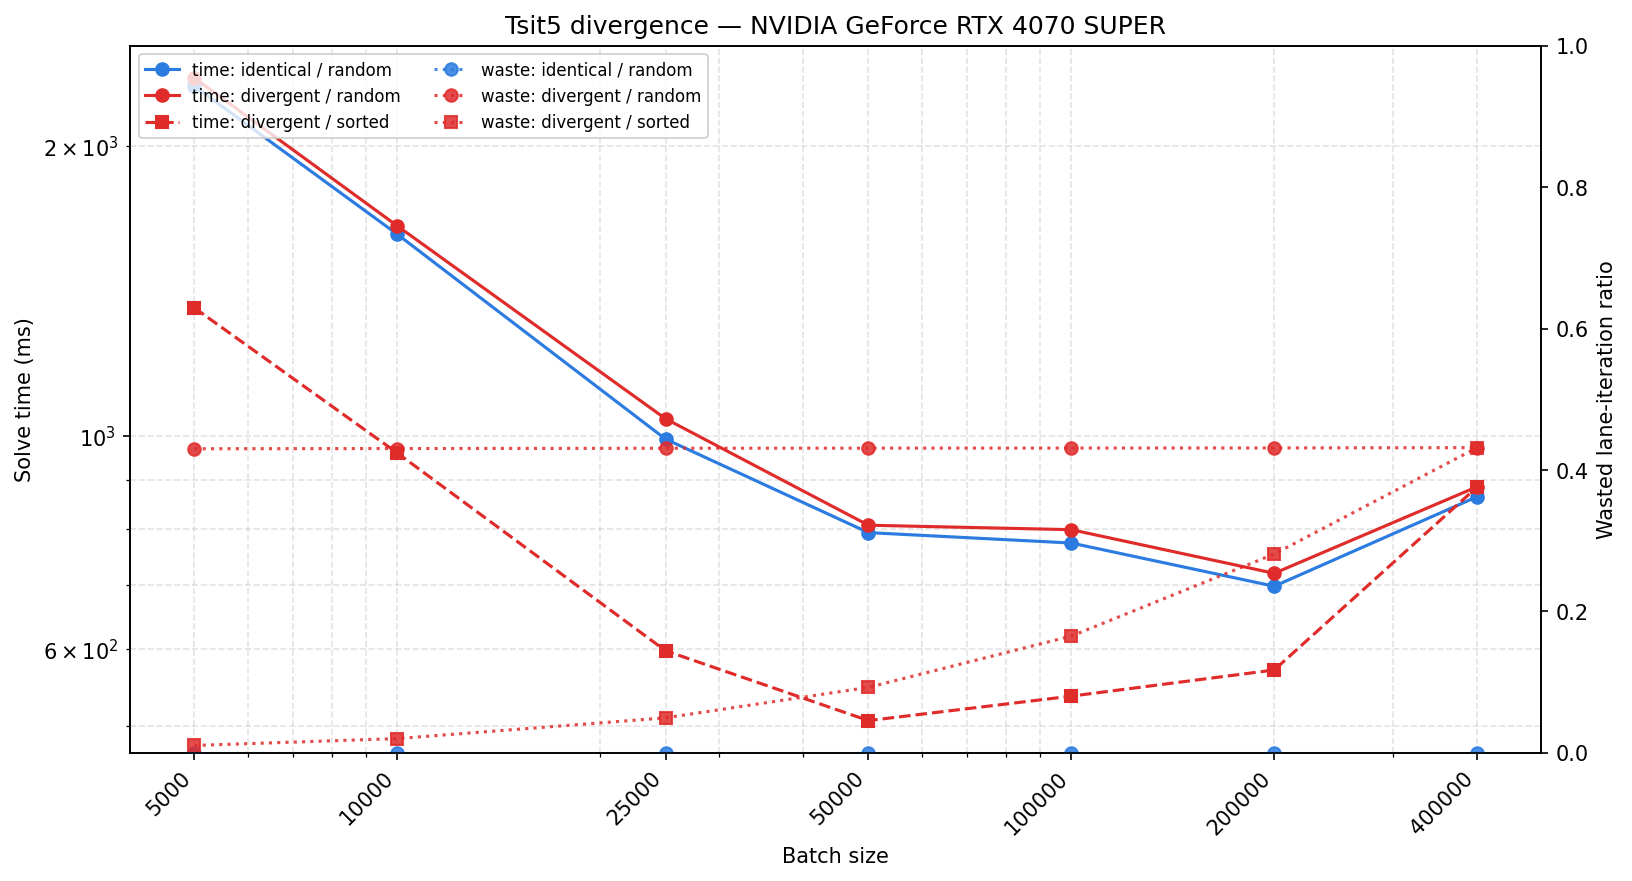
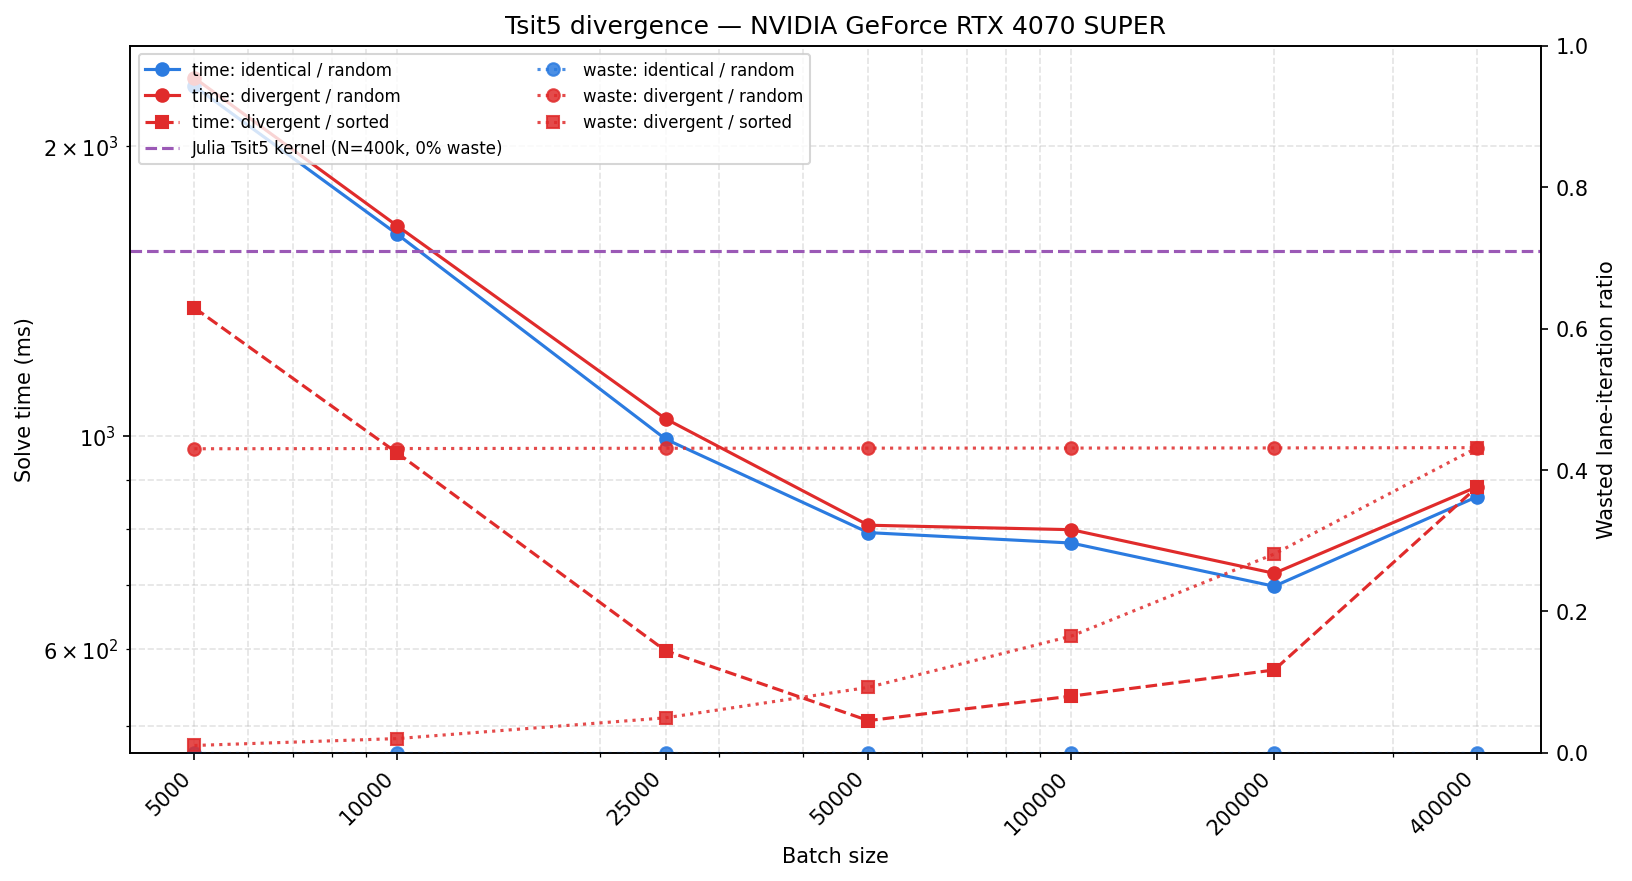
Add Julia GPUKernel solve time to divergence test plots

Changed region(s): [[0.0938, 0.0613, 0.5, 0.1839]]

diff --git a/scripts/4_rodas5_divergence/main.py b/scripts/4_rodas5_divergence/main.py
@@ -32,6 +32,7 @@ import numpy as np
 
 sys.path.insert(0, str(Path(__file__).resolve().parents[2]))
 
+from reference.solvers.python.julia_rodas5 import solve as julia_rodas5_solve
 from reference.systems.python import robertson
 from scripts.benchmark_common import (
     get_gpu_name,
@@ -57,6 +58,10 @@ _SOLVER_KWARGS = {
 
 _SCRIPT_DIR = Path(__file__).resolve().parent
 _CACHE_PATH = _SCRIPT_DIR / "results.json"
+
+_JULIA_KERNEL_CACHE_KEY = "julia_rodas5_EnsembleGPUKernel"
+_JULIA_KERNEL_COLOR = "#9b59b6"
+_JULIA_KERNEL_LABEL = "Julia Rodas5 kernel (N=400k, 0% waste)"
 
 
 @dataclass(frozen=True)
@@ -171,6 +176,22 @@ def order_scenario_data(
     return y0[perm], params[perm]
 
 
+_JULIA_SOLVER_KWARGS = {k: v for k, v in _SOLVER_KWARGS.items() if k != "lu_precision"}
+
+
+def time_julia_kernel() -> float:
+    _, params = robertson.make_scenario("divergent", _N_TRAJ)
+    result = julia_rodas5_solve._julia_solve_with_timing(
+        "robertson",
+        robertson.Y0,
+        _T_SPAN,
+        np.asarray(params),
+        ensemble_backend="EnsembleGPUKernel",
+        **_JULIA_SOLVER_KWARGS,
+    )
+    return result.solve_time_s * 1000
+
+
 def is_complete_row(value) -> bool:
     return isinstance(value, dict) and all(field in value for field in _CSV_FIELDS)
 
@@ -212,7 +233,7 @@ def collect_row(
     return row
 
 
-def run_benchmarks(gpu_name: str, cache: dict) -> list[dict]:
+def run_benchmarks(gpu_name: str, cache: dict) -> tuple[list[dict], float | None]:
     gpu_cache = cache.setdefault(gpu_name, {})
     rows: list[dict] = []
     for scenario, grouping in iter_cases():
@@ -238,7 +259,19 @@ def run_benchmarks(gpu_name: str, cache: dict) -> list[dict]:
             if row is not None:
                 rows.append(row)
         print()
-    return rows
+    julia_ms: float | None = gpu_cache.get(_JULIA_KERNEL_CACHE_KEY)
+    if julia_ms is None:
+        print(f"Julia Rodas5 kernel (N={_N_TRAJ}) ...", end=" ", flush=True)
+        try:
+            julia_ms = time_julia_kernel()
+            print(f"{julia_ms:.1f} ms")
+            gpu_cache[_JULIA_KERNEL_CACHE_KEY] = julia_ms
+            save_cache(_CACHE_PATH, cache)
+        except Exception as exc:
+            print(f"FAILED ({exc})")
+    else:
+        print(f"Julia Rodas5 kernel (N={_N_TRAJ}) ... (cached) {julia_ms:.1f} ms")
+    return rows, julia_ms
 
 
 def save_csv(rows: list[dict], path: Path) -> None:
@@ -263,7 +296,9 @@ def rows_for_case(
     )
 
 
-def plot(rows: list[dict], gpu_name: str, output_path: Path) -> None:
+def plot(
+    rows: list[dict], gpu_name: str, output_path: Path, julia_ms: float | None = None
+) -> None:
     fig, ax_time = plt.subplots(figsize=(11, 6))
     ax_waste = ax_time.twinx()
 
@@ -294,6 +329,15 @@ def plot(rows: list[dict], gpu_name: str, output_path: Path) -> None:
         )
         time_handles.append(time_line)
         waste_handles.append(waste_line)
+    if julia_ms is not None:
+        julia_line = ax_time.axhline(
+            julia_ms,
+            color=_JULIA_KERNEL_COLOR,
+            linestyle="--",
+            linewidth=1.5,
+            label=_JULIA_KERNEL_LABEL,
+        )
+        time_handles.append(julia_line)
 
     ax_time.set_xscale("log")
     ax_time.set_yscale("log")
@@ -320,11 +364,11 @@ def main() -> None:
     print(f"GPU: {gpu_name}\n")
 
     cache = load_cache(_CACHE_PATH)
-    rows = run_benchmarks(gpu_name, cache)
+    rows, julia_ms = run_benchmarks(gpu_name, cache)
 
     csv_path, plot_path = output_paths(_SCRIPT_DIR, gpu_name)
     save_csv(rows, csv_path)
-    plot(rows, gpu_name, plot_path)
+    plot(rows, gpu_name, plot_path, julia_ms=julia_ms)
 
 
 if __name__ == "__main__":

diff --git a/scripts/2_tsit5_divergence/main.py b/scripts/2_tsit5_divergence/main.py
@@ -21,6 +21,7 @@ import numpy as np
 
 sys.path.insert(0, str(Path(__file__).resolve().parents[2]))
 
+from reference.solvers.python.julia_tsit5 import solve as julia_tsit5_solve
 from reference.systems.python import lorenz
 from scripts.benchmark_common import (
     get_gpu_name,
@@ -40,6 +41,10 @@ _SOLVER_KWARGS = {"first_step": 1e-4, "rtol": 1e-6, "atol": 1e-8}
 
 _SCRIPT_DIR = Path(__file__).resolve().parent
 _CACHE_PATH = _SCRIPT_DIR / "results.json"
+
+_JULIA_KERNEL_CACHE_KEY = "julia_tsit5_EnsembleGPUKernel"
+_JULIA_KERNEL_COLOR = "#9b59b6"
+_JULIA_KERNEL_LABEL = "Julia Tsit5 kernel (N=400k, 0% waste)"
 
 
 @dataclass(frozen=True)
@@ -154,6 +159,19 @@ def order_scenario_data(
     return y0[perm], params[perm]
 
 
+def time_julia_kernel() -> float:
+    _, params = lorenz.make_scenario("divergent", _N_TRAJ)
+    result = julia_tsit5_solve._julia_solve_with_timing(
+        "lorenz",
+        lorenz.Y0,
+        lorenz.TIMES,
+        np.asarray(params),
+        ensemble_backend="EnsembleGPUKernel",
+        **_SOLVER_KWARGS,
+    )
+    return result.solve_time_s * 1000
+
+
 def is_complete_row(value) -> bool:
     return isinstance(value, dict) and all(field in value for field in _CSV_FIELDS)
 
@@ -195,7 +213,7 @@ def collect_row(
     return row
 
 
-def run_benchmarks(gpu_name: str, cache: dict) -> list[dict]:
+def run_benchmarks(gpu_name: str, cache: dict) -> tuple[list[dict], float | None]:
     gpu_cache = cache.setdefault(gpu_name, {})
     rows: list[dict] = []
     for scenario, grouping in iter_cases():
@@ -221,7 +239,19 @@ def run_benchmarks(gpu_name: str, cache: dict) -> list[dict]:
             if row is not None:
                 rows.append(row)
         print()
-    return rows
+    julia_ms: float | None = gpu_cache.get(_JULIA_KERNEL_CACHE_KEY)
+    if julia_ms is None:
+        print(f"Julia Tsit5 kernel (N={_N_TRAJ}) ...", end=" ", flush=True)
+        try:
+            julia_ms = time_julia_kernel()
+            print(f"{julia_ms:.1f} ms")
+            gpu_cache[_JULIA_KERNEL_CACHE_KEY] = julia_ms
+            save_cache(_CACHE_PATH, cache)
+        except Exception as exc:
+            print(f"FAILED ({exc})")
+    else:
+        print(f"Julia Tsit5 kernel (N={_N_TRAJ}) ... (cached) {julia_ms:.1f} ms")
+    return rows, julia_ms
 
 
 def save_csv(rows: list[dict], path: Path) -> None:
@@ -246,7 +276,9 @@ def rows_for_case(
     )
 
 
-def plot(rows: list[dict], gpu_name: str, output_path: Path) -> None:
+def plot(
+    rows: list[dict], gpu_name: str, output_path: Path, julia_ms: float | None = None
+) -> None:
     fig, ax_time = plt.subplots(figsize=(11, 6))
     ax_waste = ax_time.twinx()
 
@@ -277,6 +309,15 @@ def plot(rows: list[dict], gpu_name: str, output_path: Path) -> None:
         )
         time_handles.append(time_line)
         waste_handles.append(waste_line)
+    if julia_ms is not None:
+        julia_line = ax_time.axhline(
+            julia_ms,
+            color=_JULIA_KERNEL_COLOR,
+            linestyle="--",
+            linewidth=1.5,
+            label=_JULIA_KERNEL_LABEL,
+        )
+        time_handles.append(julia_line)
 
     ax_time.set_xscale("log")
     ax_time.set_yscale("log")
@@ -301,11 +342,11 @@ def main() -> None:
     print(f"GPU: {gpu_name}\n")
 
     cache = load_cache(_CACHE_PATH)
-    rows = run_benchmarks(gpu_name, cache)
+    rows, julia_ms = run_benchmarks(gpu_name, cache)
 
     csv_path, plot_path = output_paths(_SCRIPT_DIR, gpu_name)
     save_csv(rows, csv_path)
-    plot(rows, gpu_name, plot_path)
+    plot(rows, gpu_name, plot_path, julia_ms=julia_ms)
 
 
 if __name__ == "__main__":
